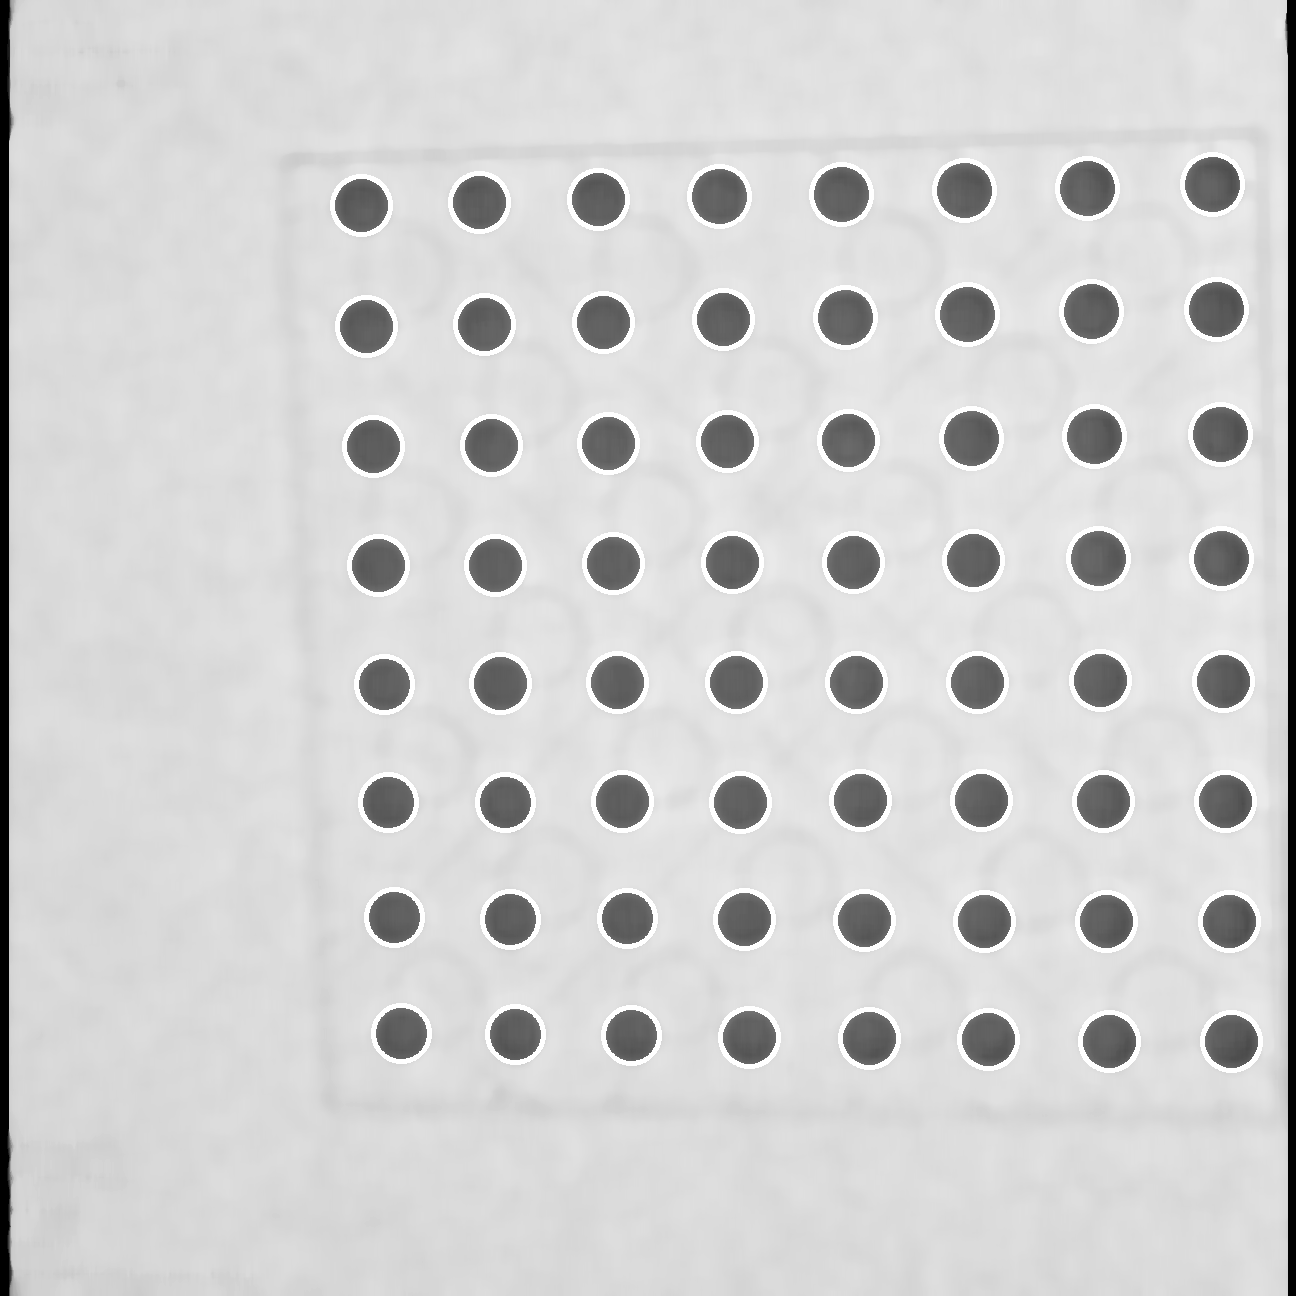
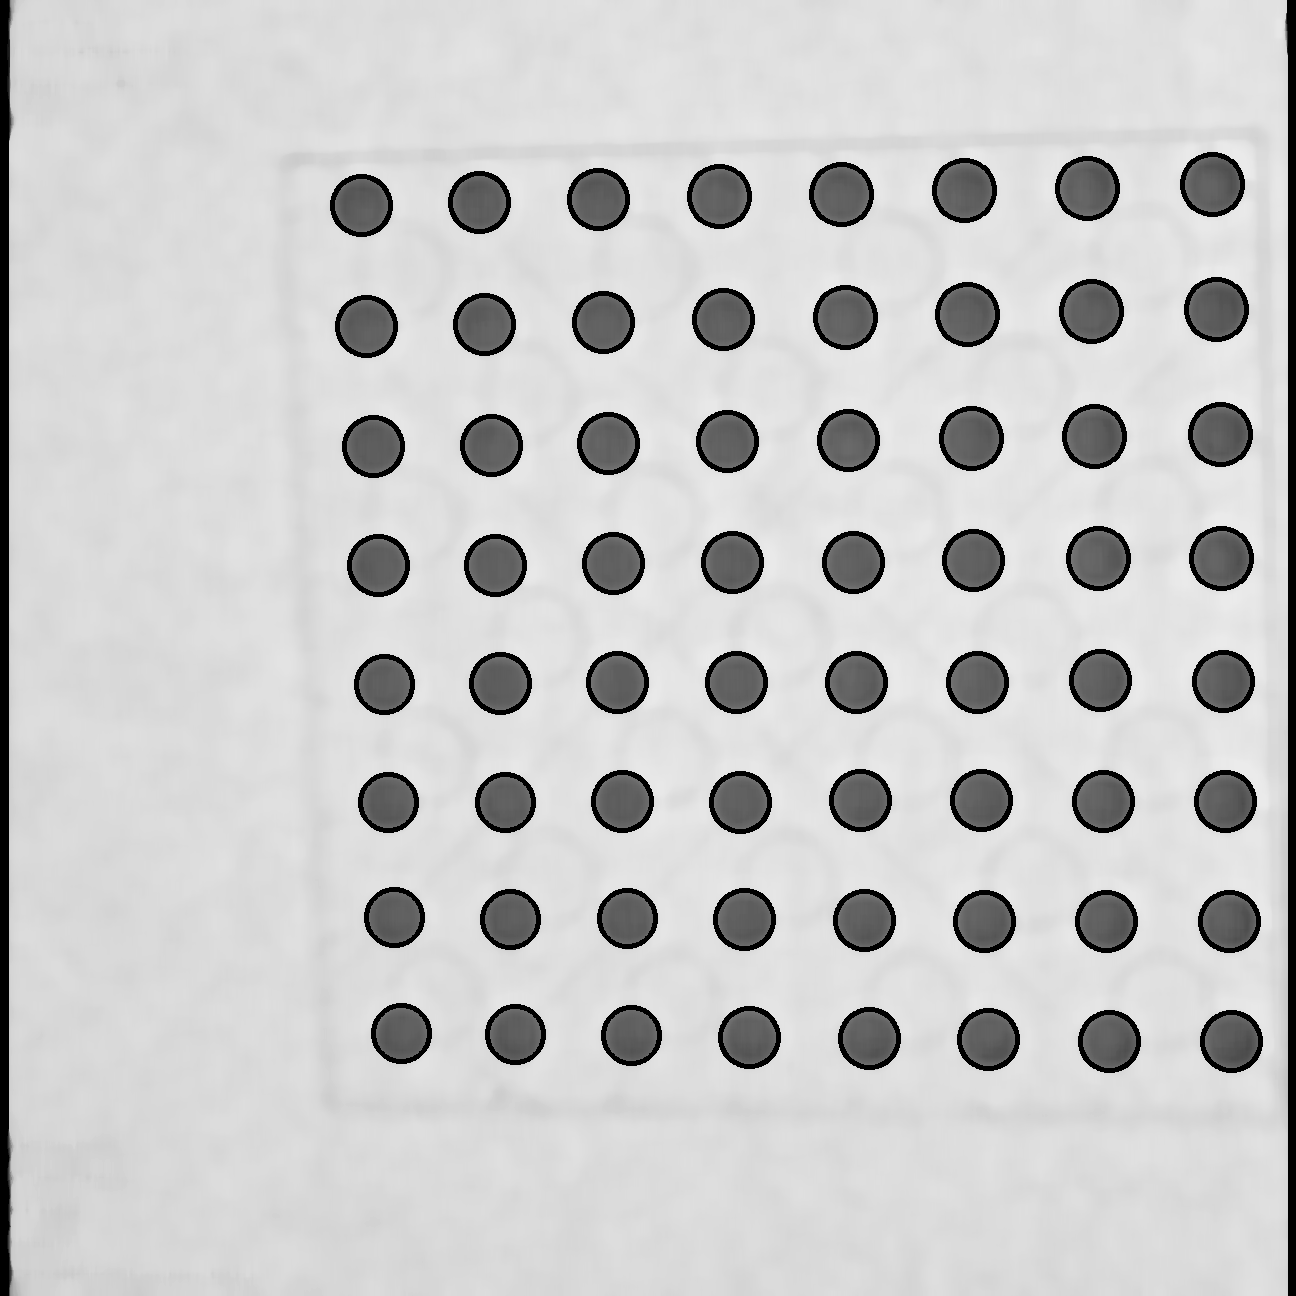
get intrinsic parameter

diff --git a/EHmin/get_intrinsic_param.py b/EHmin/get_intrinsic_param.py
@@ -13,10 +13,10 @@ params.filterByCircularity = True
 params.filterByConvexity = False
 params.filterByInertia = True
 params.filterByColor = False
-params.minArea = 3000 # The size of the blob filter to be applied. If the corresponding value is increased, small circles are not detected. 
-params.maxArea = 80000
+params.minArea = 600 # The size of the blob filter to be applied. If the corresponding value is increased, small circles are not detected. 
+params.maxArea = 8000
 params.minCircularity = 0.01 # 1 >> it detects perfect circle. Minimum size of center angle
-params.minInertiaRatio = 0.2 # 1 >> it detects perfect circle. short/long axis
+params.minInertiaRatio = 0.01 # 1 >> it detects perfect circle. short/long axis
 params.minRepeatability = 3
 params.minDistBetweenBlobs = 0.01
 
@@ -26,8 +26,8 @@ detector = cv.SimpleBlobDetector_create(params)
 PATTERN_SIZE = (8,8) # 18 circle exist
 UNIT_SIZE = 15.9375 # distance between circles // unit is millimeter
 
-for j in range(15):
-    IMG_PATH ='./newData/'+ str(7063+ j + 1)+ '.png'
+for j in range(17):
+    IMG_PATH ='./perfect_circle/'+ str(j)+ '.png'
     imgInit = cv.imread(IMG_PATH,cv.IMREAD_GRAYSCALE)
     H, W = imgInit.shape[:2] 
 
@@ -52,8 +52,8 @@ for j in range(15):
 #2D 좌표
 points2Ds =[]
 
-for i in range(15):
-    IMG_PATH ='./newData/'+ str(7063 + i )+ '.png'
+for i in range(17):
+    IMG_PATH ='./perfect_circle/'+ str(i)+ '.png'
     img_gray = cv.imread(IMG_PATH, cv.IMREAD_GRAYSCALE)
     # circle 좌표를 찾음
     ret, corners = cv.findCirclesGrid(img_gray,PATTERN_SIZE,flags=cv.CALIB_CB_SYMMETRIC_GRID+cv.CALIB_CB_CLUSTERING,blobDetector=detector)
@@ -66,9 +66,9 @@ for i in range(15):
 pattern_points = np.zeros((PATTERN_SIZE[0] * PATTERN_SIZE[1], 3), np.float32)
 pattern_points[:, :2] = np.indices(PATTERN_SIZE).T.reshape(-1, 2)
 pattern_points *= UNIT_SIZE
-points3Ds = [pattern_points for i in range(15)]
+points3Ds = [pattern_points for i in range(17)]
 
-'''
+
 # -------------------- 원 잘 그려졌는지 판별하는 코드
 fontFace = cv.FONT_HERSHEY_SIMPLEX
 fontScale = 1
@@ -78,7 +78,7 @@ lineType = cv.LINE_AA
 
 imgColor = cv.imread(IMG_PATH)
 
-for j in range(18): # 원의 개수만큼 그린당.
+for j in range(64): # 원의 개수만큼 그린당.
     # draw the center of the circle, it is original
     x = int(points2Ds[0][j][0][0])
     y = int(points2Ds[0][j][0][1])
@@ -88,7 +88,7 @@ for j in range(18): # 원의 개수만큼 그린당.
 
 cv.imshow("detect",imgColor)
 cv.waitKey(0)
-'''
+
 
 # ------------ Camera calibrate
 rms_err, mtx, dist, rvecs, tvecs = cv.calibrateCamera(points3Ds, points2Ds, (W, H), None, None)   
@@ -105,7 +105,7 @@ thickness = 2
 lineType = cv.LINE_AA
 
 # reprojection output - 1번째 사진만.
-img_rePro = cv.imread('./circle_images/1_Color.png')
+img_rePro = cv.imread('./perfect_circle/0.png')
 mean_error=0
 # 3D 공간의 점을 2d 이미지로 reprojection.
 # imgpoints2는 tuple형식. shape : ( N, 1, 2 ), N은 3d point의 개수. 

diff --git a/EHmin/check_circle copy.py b/EHmin/check_circle copy.py
@@ -44,13 +44,13 @@ for j in range(17):
         y = int(keypoint.pt[1])
         s = keypoint.size
         r = int(math.floor(s / 2))
-        cv.circle(imgInit, (x, y), r, (256, 200, 0), 3) # draw circle
+        cv.circle(imgInit, (x, y), r, (0, 0, 0), 3) # draw circle
         # cv.putText(imgInit, str(x) + "," + str(y),(x,y), fontFace, fontScale, color, thickness, lineType)
         # print(x,y)
     print(len(keyPoints))
     print()
     if j == 14:
-        cv.circle(imgInit, (51, 1185), 32, (256, 200, 0), 3)
+        cv.circle(imgInit, (51, 1185), 32, (0, 0, 0), 3)
     # cv.imshow(str(j),imgInit) # visualize 
     cv.imwrite('./perfect_circle/'+str(j) + '.png', imgInit)
     cv.waitKey(0)
